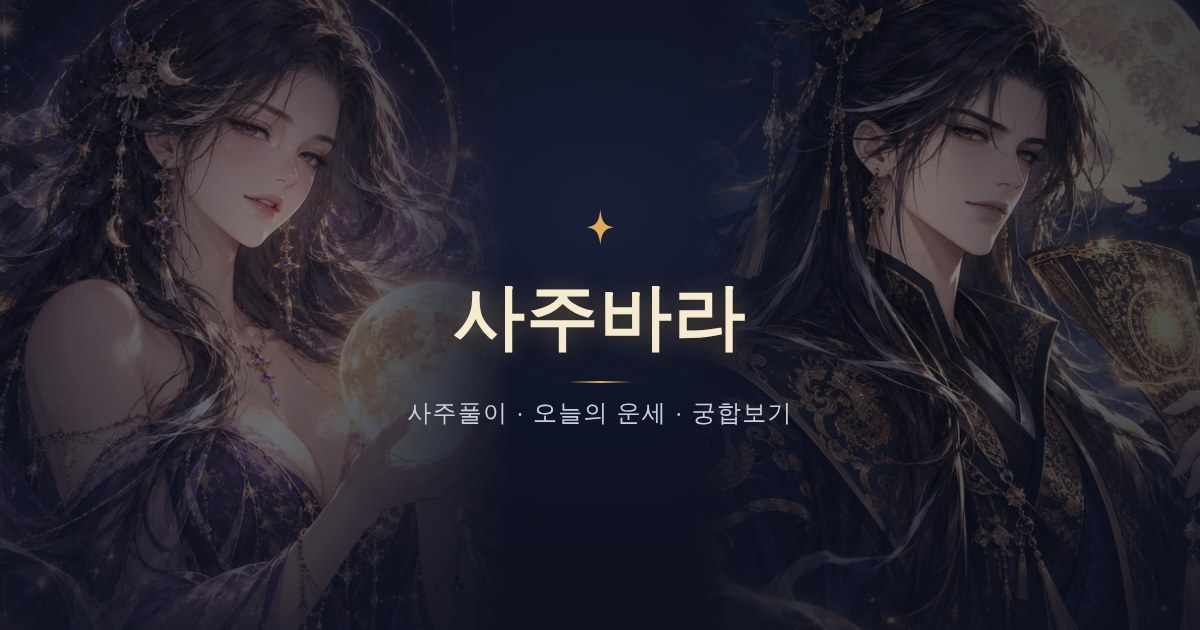
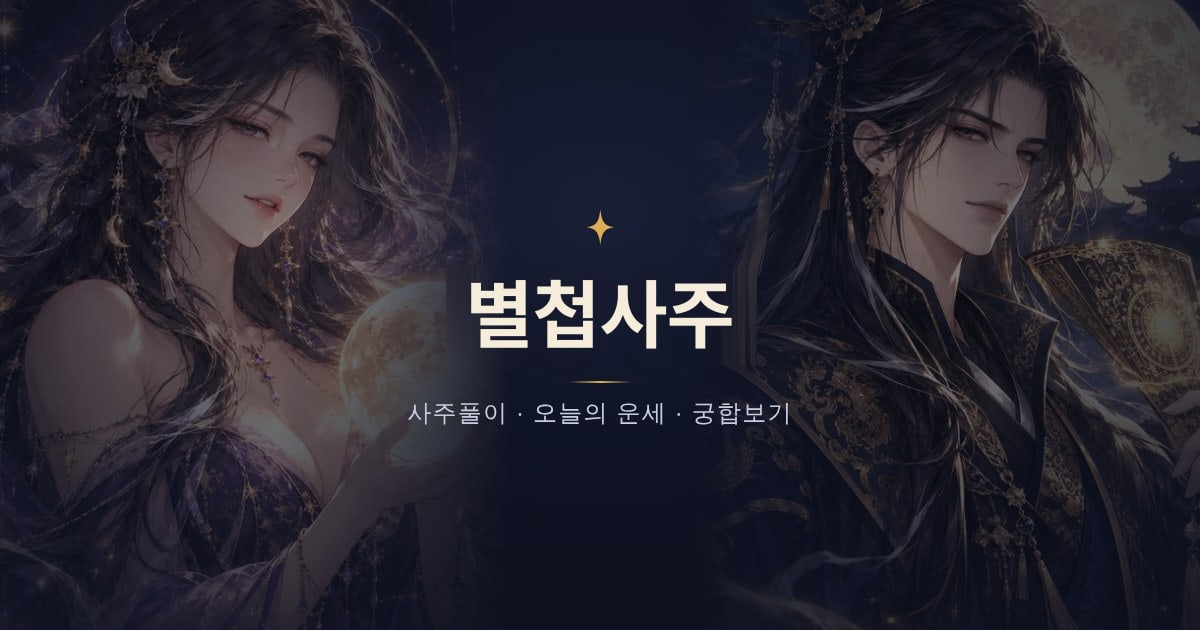
서비스명을 사주바라 → 별첩사주로 변경: 문구·메타·로고·아이콘·공유 이미지

Changed region(s): [[0.37, 0.4222, 0.6167, 0.573]]

diff --git a/index.html b/index.html
@@ -3,21 +3,21 @@
 <head>
 <meta charset="utf-8">
 <meta name="viewport" content="width=device-width,initial-scale=1,viewport-fit=cover">
-<meta name="description" content="사주팔자 분석, 오늘의 운세, 궁합보기를 한 곳에서 — SAZUBARA">
-<link rel="icon" type="image/svg+xml" href="/favicon.svg?v=5">
-<link rel="apple-touch-icon" href="/apple-touch-icon.png?v=5">
+<meta name="description" content="무료 사주풀이, 오늘의 운세, 궁합보기를 한 곳에서. 내 사주를 별 카드로 모아보는 별첩사주.">
+<link rel="icon" type="image/svg+xml" href="/favicon.svg?v=6">
+<link rel="apple-touch-icon" href="/apple-touch-icon.png?v=6">
 <meta property="og:type" content="website">
-<meta property="og:site_name" content="사주바라">
-<meta property="og:title" content="사주바라 — 사주풀이 · 오늘의 운세 · 궁합보기">
-<meta property="og:description" content="나의 성향부터 오늘의 흐름, 서로의 궁합까지. 사주바라에서 만나보세요.">
-<meta property="og:image" content="https://sazubara-web.vercel.app/og-image-v2.jpg">
-<meta property="og:image:alt" content="라벤더빛 카드와 사주바라 로고">
+<meta property="og:site_name" content="별첩사주">
+<meta property="og:title" content="별첩사주 — 사주풀이 · 오늘의 운세 · 궁합보기">
+<meta property="og:description" content="나의 성향부터 오늘의 흐름, 서로의 궁합까지. 별첩사주에서 만나보세요.">
+<meta property="og:image" content="https://sazubara-web.vercel.app/og-image-v3.jpg">
+<meta property="og:image:alt" content="라벤더빛 카드와 별첩사주 로고">
 <meta property="og:image:width" content="1200">
 <meta property="og:image:height" content="630">
 <meta name="twitter:card" content="summary_large_image">
-<meta name="twitter:title" content="사주바라 — 사주풀이 · 오늘의 운세 · 궁합보기">
-<meta name="twitter:image" content="https://sazubara-web.vercel.app/og-image-v2.jpg">
-<title>사주바라 — 나의 사주, 오늘의 흐름</title>
+<meta name="twitter:title" content="별첩사주 — 사주풀이 · 오늘의 운세 · 궁합보기">
+<meta name="twitter:image" content="https://sazubara-web.vercel.app/og-image-v3.jpg">
+<title>별첩사주 — 무료 사주풀이 · 오늘의 운세 · 궁합</title>
 <link rel="preconnect" href="https://fonts.googleapis.com">
 <link rel="preconnect" href="https://fonts.gstatic.com" crossorigin>
 <link href="https://fonts.googleapis.com/css2?family=Noto+Sans+KR:wght@400;500;600;700&family=Noto+Serif+KR:wght@500;600&display=swap" rel="stylesheet">
@@ -832,7 +832,7 @@ img{max-width:100%;}
 }
 </style>
 <style>
-/* 사주바라 화면 정리: 읽기 쉬운 카드와 포스터 중심 탐색 */
+/* 별첩사주 화면 정리: 읽기 쉬운 카드와 포스터 중심 탐색 */
 :root{--fg-muted:#b4bdd3;--fg-faint:#929db9;--border:rgba(190,202,239,.12);--shadow:0 6px 20px rgba(0,0,0,.16);}
 html{min-height:100%;scroll-padding-top:90px;}
 body{background:radial-gradient(ellipse at 50% 0,rgba(37,48,85,.28),transparent 55%),var(--bg);}
@@ -1048,7 +1048,7 @@ body{background:#ece7e5;letter-spacing:-.025em}.app{background:var(--bg);box-sha
 <div class="app">
   <header class="app-header">
     <div class="title-col">
-      <span class="mark brand-mark"><span class="brand-ic" id="brand-mark-ic"></span>사주바라</span>
+      <span class="mark brand-mark"><span class="brand-ic" id="brand-mark-ic"></span>별첩사주</span>
       <span class="sub">오늘의 운세 · 궁합</span>
     </div>
     <div class="header-actions">
@@ -1065,7 +1065,7 @@ body{background:#ece7e5;letter-spacing:-.025em}.app{background:var(--bg);box-sha
 
       <form class="card" id="saju-form">
         <div>
-          <img class="brand-hero" src="og-image.jpg" alt="달빛 아래 두 인물과 사주바라 브랜드" width="1200" height="630" fetchpriority="high">
+          <img class="brand-hero" src="og-image.jpg?v=2" alt="달빛 아래 두 인물과 별첩사주 브랜드" width="1200" height="630" fetchpriority="high">
           <p class="eyebrow">내 사주 속, 아직 몰랐던 이야기</p>
           <h1 class="section-title">나는 어떤 사람일까?</h1>
           <p class="section-desc">생년월일만 알려주면 돼요. 타고난 성격부터 숨겨진 기운, 오늘의 흐름까지 무료로 풀어드려요.</p>
@@ -2296,26 +2296,26 @@ function loadKakaoSdk(){
   });
   return _kakaoSdkPromise;
 }
-var KAKAO_SHARE_IMAGE = 'https://sazubara-web.vercel.app/og-image-v2.jpg';
+var KAKAO_SHARE_IMAGE = 'https://sazubara-web.vercel.app/og-image-v3.jpg';
 function kakaoShare(text, url, buttonTitle){
   return loadKakaoSdk().then(function(Kakao){
     Kakao.Share.sendDefault({
       objectType: 'feed',
       content: {
-        title: '사주바라',
+        title: '별첩사주',
         description: text,
         imageUrl: KAKAO_SHARE_IMAGE,
         link: { mobileWebUrl: url, webUrl: url }
       },
       buttons: [{
-        title: buttonTitle || '사주바라 열어보기',
+        title: buttonTitle || '별첩사주 열어보기',
         link: { mobileWebUrl: url, webUrl: url }
       }]
     });
   });
 }
 /* 궁합/오늘의 운세/사주요약 공유카드(동적으로 생성된 PNG blob)를 카카오 피드 카드의
-   이미지로 올려서, 누르면 바로 사주바라로 랜딩되는 "초대 메시지" 형태로 공유한다.
+   이미지로 올려서, 누르면 바로 별첩사주로 랜딩되는 "초대 메시지" 형태로 공유한다.
    Kakao.Share.uploadImage는 1회성 이미지 업로드 API — 업로드된 imageUrl을 피드 카드에 꽂아 보낸다. */
 function kakaoShareImage(title, text, blob, url, buttonTitle){
   return loadKakaoSdk().then(function(Kakao){
@@ -2330,7 +2330,7 @@ function kakaoShareImage(title, text, blob, url, buttonTitle){
           link: { mobileWebUrl: url, webUrl: url }
         },
         buttons: [{
-          title: buttonTitle || '사주바라에서 확인하기',
+          title: buttonTitle || '별첩사주에서 확인하기',
           link: { mobileWebUrl: url, webUrl: url }
         }]
       });
@@ -2358,10 +2358,10 @@ function maybeAwardShareBonus(){
 }
 function doShare(){
   var url = shareUrl();
-  var text = (STATE.mySaju&&STATE.mySaju.name? STATE.mySaju.name+'님이 ':'')+'사주바라에서 사주풀이·오늘의 운세·궁합을 확인해보세요! 생년월일을 입력하고 서로의 궁합도 확인해보세요 ✨';
+  var text = (STATE.mySaju&&STATE.mySaju.name? STATE.mySaju.name+'님이 ':'')+'별첩사주에서 사주풀이·오늘의 운세·궁합을 확인해보세요! 생년월일을 입력하고 서로의 궁합도 확인해보세요 ✨';
   kakaoShare(text, url).then(maybeAwardShareBonus).catch(function(){
   if (navigator.share){
-    navigator.share({ title:'사주바라', text:text, url:url }).then(maybeAwardShareBonus).catch(function(){});
+    navigator.share({ title:'별첩사주', text:text, url:url }).then(maybeAwardShareBonus).catch(function(){});
   } else {
     copyToClipboard(text+'\n'+url);
     showToast('초대 링크가 복사됐어요. 카카오톡에 붙여넣어 공유해보세요!');
@@ -2383,7 +2383,7 @@ function doShare(){
                showToast('링크를 보냈어요! 상대방이 입력하면 나의 카드첩에서 서로 궁합을 확인할 수 있어요.');
         }).catch(function(){
                if (navigator.share){
-                        navigator.share({ title:'사주바라 궁합', text:text, url:url }).then(function(){
+                        navigator.share({ title:'별첩사주 궁합', text:text, url:url }).then(function(){
                                    maybeAwardShareBonus();
                                    showToast('링크를 보냈어요! 상대방이 입력하면 나의 카드첩에서 서로 궁합을 확인할 수 있어요.');
                         }).catch(function(){});
@@ -2432,7 +2432,7 @@ function startUnlock(unlockKey, priceKrw, label){
     tp.requestPayment('카드', {
       amount: priceKrw,
       orderId: orderId,
-      orderName: '사주바라 — ' + label,
+      orderName: '별첩사주 — ' + label,
       successUrl: location.origin + '/success.html?type=unlock&unlockKey=' + encodeURIComponent(unlockKey)+'&tab='+encodeURIComponent(location.hash.replace('#','')||'saju'),
       failUrl: location.origin + '/fail.html'
     });
@@ -2591,7 +2591,7 @@ function personaIconSvg(bg, inner){
       '<circle cx="32" cy="32" r="32" fill="'+bg+'"/>'+inner+'</svg>';
 }
 /* 태극의 유동적인 소용돌이 곡선 + 꼬리 끝의 별 — 동양 철학의 흐름과 점성술의 반짝임을 함께 담은 브랜드 마크 */
-var BRAND_MARK_SVG = '<svg aria-hidden="true" xmlns="http://www.w3.org/2000/svg" viewBox="0 0 48 48" fill="none"><rect x="2" y="2" width="44" height="44" rx="14" fill="#eee4f3"/><g stroke="#8f6a9f" stroke-width="2" stroke-linecap="round" stroke-linejoin="round"><path d="M24 24C16 23 11 19 12 13c6-1 10 4 12 11Z"/><path d="M24 24c1-8 5-13 11-12 1 6-4 10-11 12Z"/><path d="M24 24c8 1 13 5 12 11-6 1-10-4-12-11Z"/><path d="M24 24c-1 8-5 13-11 12-1-6 4-10 11-12Z"/></g><path d="m24 19 5 5-5 5-5-5Z" fill="#b99ac9"/><g fill="#ae8cbf"><circle cx="24" cy="8" r="1.2"/><circle cx="40" cy="24" r="1.2"/><circle cx="24" cy="40" r="1.2"/><circle cx="8" cy="24" r="1.2"/></g></svg>';
+var BRAND_MARK_SVG = '<svg aria-hidden="true" xmlns="http://www.w3.org/2000/svg" viewBox="0 0 48 48" fill="none"><rect x="2" y="2" width="44" height="44" rx="14" fill="#eee4f3"/><g stroke="#8f6a9f" stroke-width="2" stroke-linecap="round" stroke-linejoin="round"><path d="M24 37c-3.6-2.4-7.6-3.2-12-2.6V19.6c4.4-.6 8.4.2 12 2.6"/><path d="M24 37c3.6-2.4 7.6-3.2 12-2.6V19.6c-4.4-.6-8.4.2-12 2.6"/><path d="M24 22.2V37"/></g><path d="M24 6.5l1.5 3.6 3.6 1.5-3.6 1.5L24 16.7l-1.5-3.6-3.6-1.5 3.6-1.5Z" fill="#b99ac9" stroke="#8f6a9f" stroke-width="1.2" stroke-linejoin="round"/><g fill="#8f6a9f"><circle cx="13" cy="11" r="1.2"/><circle cx="35" cy="11" r="1.2"/><circle cx="31" cy="15.5" r=".9"/></g></svg>';
 /* 리빌 오버레이 전용 — 계속 회전하는 로딩 마크라 방사 대칭인 반짝임 모양을 그대로 유지 */
 var REVEAL_SPARK_SVG = personaIconSvg('#f3ece0',
   '<path d="M32 12c1.6 11 3.4 16.6 14 18-10.6 1.4-12.4 7-14 18-1.6-11-3.4-16.6-14-18 10.6-1.4 12.4-7 14-18z" fill="#9c6b1f"/>'
@@ -3671,7 +3671,7 @@ var CARD_TYPES=[
 ];
 function cardTypeOf(entry){return CARD_TYPES.find(function(t){return t.stem===entry.dayGanB;})||CARD_TYPES.find(function(t){return t.wx===entry.dayGanWxB&&t.polarity===entry.cardPolarity;})||null;}
 function cardDexEntries(list){return CARD_TYPES.reduce(function(out,type){MYROOM_TIERS.forEach(function(tier){var matches=list.filter(function(e){var t=cardTypeOf(e);return t&&t.id===type.id&&myroomTier(e.score).key===tier.key;});out.push({id:type.id+'-'+tier.key,type:type,tier:tier,entry:matches[0]||null,count:matches.length});});return out;},[]);}
-function cardBackHtml(row,extra){return '<div class="card-back '+(extra||'')+'" aria-label="미보유 · '+esc(row.type.title)+' · '+row.tier.grade+'등급"><span class="card-back-grade">'+row.tier.grade+'</span><span class="card-back-mark">'+BRAND_MARK_SVG+'</span><span class="card-back-brand">SAZUBARA</span><small>'+esc(row.type.wx)+' · '+(row.type.polarity==='yang'?'양':'음')+'</small><span class="card-back-label">아직 만나지 않은 인연</span></div>';}
+function cardBackHtml(row,extra){return '<div class="card-back '+(extra||'')+'" aria-label="미보유 · '+esc(row.type.title)+' · '+row.tier.grade+'등급"><span class="card-back-grade">'+row.tier.grade+'</span><span class="card-back-mark">'+BRAND_MARK_SVG+'</span><span class="card-back-brand">BYEOLCHEOP</span><small>'+esc(row.type.wx)+' · '+(row.type.polarity==='yang'?'양':'음')+'</small><span class="card-back-label">아직 만나지 않은 인연</span></div>';}
 function cardAlbumEmptyHtml(){var rows=cardDexEntries([]).filter(function(r){return r.tier.key==='a';}).slice(0,6);return '<div class="album-page-label"><span>MY CONNECTIONS</span><span>01 / ∞</span></div><div class="myroom-grid card-album-empty">'+rows.map(function(r){return cardBackHtml(r);}).join('')+'</div>';}
 function closeMyroomDex(){var root=$('#myroom-sheet-root');if(root)root.innerHTML='';}
 function openMyroomDex(){
@@ -3876,7 +3876,7 @@ function startReportUnlock(concept,stage){
   Promise.all([loadTossSdk(),fetch('/api/reports/unlock',{method:'POST',headers:{'Content-Type':'application/json'},body:JSON.stringify({action:'prepare',deviceId:DEVICE.shareCode,conceptId:concept.id,stage:stage})}).then(function(r){return r.json();}).then(function(data){if(!data.ok){var error=new Error(data.message||'결제 준비에 실패했어요.');error.code=data.error;throw error;}return data;})]).then(function(values){
     var ctx=values[0],checkout=values[1];
     return ctx.TossPayments(ctx.clientKey).requestPayment('카드',{
-      amount:checkout.amount,orderId:checkout.orderId,orderName:'사주바라 '+(stage==='story'?'콘텐츠':'심층 리포트')+' — '+concept.title,
+      amount:checkout.amount,orderId:checkout.orderId,orderName:'별첩사주 '+(stage==='story'?'콘텐츠':'심층 리포트')+' — '+concept.title,
       successUrl:location.origin+'/success.html?type=report&conceptId='+encodeURIComponent(concept.id)+'&stage='+stage+'&quote='+encodeURIComponent(checkout.quote),
       failUrl:location.origin+'/fail.html?report='+encodeURIComponent(concept.id)+'&stage='+stage
     });
@@ -5075,9 +5075,9 @@ function shareCardFooter(ctx, W, dividerY, hookLine){
   ctx.fillStyle='#f3e6c8'; ctx.font='700 32px "Noto Serif KR", serif';
   ctx.fillText(hookLine, W/2, dividerY+64);
   ctx.fillStyle='#e0ad55'; ctx.font='700 24px "Noto Sans KR", sans-serif';
-  ctx.fillText('사주바라에서 무료로 확인하기', W/2, dividerY+110);
+  ctx.fillText('별첩사주에서 무료로 확인하기', W/2, dividerY+110);
   ctx.fillStyle='#767e94'; ctx.font='400 19px "Noto Sans KR", sans-serif';
-  ctx.fillText('sazubara.app', W/2, dividerY+146);
+  ctx.fillText(location.host, W/2, dividerY+146);
 }
 function buildCompatShareCard(resA, resB, compat, total){
   var W=1080, H=1650;
@@ -5103,7 +5103,7 @@ function buildCompatShareCard(resA, resB, compat, total){
     ctx.textAlign='center'; ctx.textBaseline='alphabetic';
     ctx.fillStyle='#e0ad55';
     ctx.font='700 38px "Noto Serif KR", serif';
-    ctx.fillText('사주바라 궁합', W/2, 146);
+    ctx.fillText('별첩사주 궁합', W/2, 146);
     ctx.fillStyle='#a1a8bd';
     ctx.font='400 23px "Noto Sans KR", sans-serif';
     ctx.fillText('사주로 보는 우리 궁합', W/2, 188);
@@ -5204,7 +5204,7 @@ function buildDailyShareCard(my){
     ctx.textAlign='center'; ctx.textBaseline='alphabetic';
     ctx.fillStyle='#e0ad55';
     ctx.font='700 38px "Noto Serif KR", serif';
-    ctx.fillText('사주바라 오늘의 운세', W/2, 146);
+    ctx.fillText('별첩사주 오늘의 운세', W/2, 146);
     ctx.fillStyle='#a1a8bd';
     ctx.font='400 23px "Noto Sans KR", sans-serif';
     ctx.fillText(now.getFullYear()+'년 '+(now.getMonth()+1)+'월 '+now.getDate()+'일 ('+weekKr+') · '+(my.name?my.name+'님':'나')+' 기준', W/2, 188);
@@ -5295,7 +5295,7 @@ function buildSajuShareCard(result){
     ctx.textAlign='center'; ctx.textBaseline='alphabetic';
     ctx.fillStyle='#e0ad55';
     ctx.font='700 38px "Noto Serif KR", serif';
-    ctx.fillText('사주바라 사주풀이', W/2, 146);
+    ctx.fillText('별첩사주 사주풀이', W/2, 146);
     ctx.fillStyle='#a1a8bd';
     ctx.font='400 23px "Noto Sans KR", sans-serif';
     ctx.fillText('나의 사주팔자', W/2, 188);
@@ -5379,7 +5379,7 @@ function buildReportShareCard(concept, panels, result){
     ctx.textAlign='center'; ctx.textBaseline='alphabetic';
     ctx.fillStyle='#e0ad55';
     ctx.font='700 32px "Noto Serif KR", serif';
-    ctx.fillText('사주바라 이야기', W/2, 142);
+    ctx.fillText('별첩사주 이야기', W/2, 142);
 
     var avR=78, avY=290;
     drawShareAvatar(ctx, avImg, W/2, avY, avR, (result.name||'나').charAt(0));
@@ -5421,7 +5421,7 @@ function downloadCanvasImage(canvas, filename, toastMsg){
 }
 function fallbackTextShare(text, url, title){
   if (navigator.share){
-    navigator.share({ title:title||'사주바라', text:text, url:url }).then(maybeAwardShareBonus).catch(function(){});
+    navigator.share({ title:title||'별첩사주', text:text, url:url }).then(maybeAwardShareBonus).catch(function(){});
   } else {
     copyToClipboard(text+'\n'+url);
     showToast('공유 텍스트가 복사됐어요. 카카오톡에 붙여넣어 보내보세요!');
@@ -5437,50 +5437,50 @@ function isKakaoInApp(){
 }
 function doShareCompat(resA, resB, total, compat){
   var url = shareUrl();
-  var text = (resA.name||'나')+' ✕ '+(resB.name||'상대방')+' 궁합 점수는 '+total+'점! 사주바라에서 우리 궁합도 확인해보세요 💕';
-  if (!document.createElement('canvas').getContext){ fallbackTextShare(text, url, '사주바라 궁합'); return; }
+  var text = (resA.name||'나')+' ✕ '+(resB.name||'상대방')+' 궁합 점수는 '+total+'점! 별첩사주에서 우리 궁합도 확인해보세요 💕';
+  if (!document.createElement('canvas').getContext){ fallbackTextShare(text, url, '별첩사주 궁합'); return; }
   buildCompatShareCard(resA, resB, compat, total).then(function(canvas){
     canvas.toBlob(function(blob){
-      if (!blob){ fallbackTextShare(text, url, '사주바라 궁합'); return; }
-      shareImageBlob(canvas, blob, text, url, 'sazubara-compat.png', '사주바라 궁합', '우리 궁합 확인하기');
+      if (!blob){ fallbackTextShare(text, url, '별첩사주 궁합'); return; }
+      shareImageBlob(canvas, blob, text, url, 'byeolcheop-compat.png', '별첩사주 궁합', '우리 궁합 확인하기');
     }, 'image/png', 0.95);
-  }).catch(function(){ fallbackTextShare(text, url, '사주바라 궁합'); });
+  }).catch(function(){ fallbackTextShare(text, url, '별첩사주 궁합'); });
 }
 function doShareDaily(my){
   var url = shareUrl();
   var today = todayGanZhi();
   var ssKey = dailyShishenKey(my.day.gan, my.dayGanWx, today.gan, today.wxGan);
   var ft = FORTUNE_TEXT[ssKey];
-  var text = (my.name?my.name+'님의':'나의')+' 오늘 기운은 "'+ft.label+'"! 사주바라에서 오늘의 운세를 확인해보세요 🔮';
-  if (!document.createElement('canvas').getContext){ fallbackTextShare(text, url, '사주바라 오늘의 운세'); return; }
+  var text = (my.name?my.name+'님의':'나의')+' 오늘 기운은 "'+ft.label+'"! 별첩사주에서 오늘의 운세를 확인해보세요 🔮';
+  if (!document.createElement('canvas').getContext){ fallbackTextShare(text, url, '별첩사주 오늘의 운세'); return; }
   buildDailyShareCard(my).then(function(canvas){
     canvas.toBlob(function(blob){
-      if (!blob){ fallbackTextShare(text, url, '사주바라 오늘의 운세'); return; }
-      shareImageBlob(canvas, blob, text, url, 'sazubara-today.png', '사주바라 오늘의 운세', '오늘 운세 확인하기');
+      if (!blob){ fallbackTextShare(text, url, '별첩사주 오늘의 운세'); return; }
+      shareImageBlob(canvas, blob, text, url, 'byeolcheop-today.png', '별첩사주 오늘의 운세', '오늘 운세 확인하기');
     }, 'image/png', 0.95);
-  }).catch(function(){ fallbackTextShare(text, url, '사주바라 오늘의 운세'); });
+  }).catch(function(){ fallbackTextShare(text, url, '별첩사주 오늘의 운세'); });
 }
 function doShareSaju(result){
   var url = shareUrl();
-  var text = (result.name?result.name+'님의':'나의')+' 사주를 사주바라에서 무료로 풀어보세요 ✨';
-  if (!document.createElement('canvas').getContext){ fallbackTextShare(text, url, '사주바라 내 사주'); return; }
+  var text = (result.name?result.name+'님의':'나의')+' 사주를 별첩사주에서 무료로 풀어보세요 ✨';
+  if (!document.createElement('canvas').getContext){ fallbackTextShare(text, url, '별첩사주 내 사주'); return; }
   buildSajuShareCard(result).then(function(canvas){
     canvas.toBlob(function(blob){
-      if (!blob){ fallbackTextShare(text, url, '사주바라 내 사주'); return; }
-      shareImageBlob(canvas, blob, text, url, 'sazubara-saju.png', '사주바라 내 사주', '내 사주 확인하기');
+      if (!blob){ fallbackTextShare(text, url, '별첩사주 내 사주'); return; }
+      shareImageBlob(canvas, blob, text, url, 'byeolcheop-saju.png', '별첩사주 내 사주', '내 사주 확인하기');
     }, 'image/png', 0.95);
-  }).catch(function(){ fallbackTextShare(text, url, '사주바라 내 사주'); });
+  }).catch(function(){ fallbackTextShare(text, url, '별첩사주 내 사주'); });
 }
 function doShareReport(concept, panels, result){
   var url = shareUrl();
-  var text = '"'+concept.title+'" 이야기, 사주바라에서 확인해보세요 ✨';
-  if (!document.createElement('canvas').getContext){ fallbackTextShare(text, url, '사주바라 이야기'); return; }
+  var text = '"'+concept.title+'" 이야기, 별첩사주에서 확인해보세요 ✨';
+  if (!document.createElement('canvas').getContext){ fallbackTextShare(text, url, '별첩사주 이야기'); return; }
   buildReportShareCard(concept, panels, result).then(function(canvas){
     canvas.toBlob(function(blob){
-      if (!blob){ fallbackTextShare(text, url, '사주바라 이야기'); return; }
-      shareImageBlob(canvas, blob, text, url, 'sazubara-report.png', '사주바라 이야기', '이야기 확인하기');
+      if (!blob){ fallbackTextShare(text, url, '별첩사주 이야기'); return; }
+      shareImageBlob(canvas, blob, text, url, 'byeolcheop-report.png', '별첩사주 이야기', '이야기 확인하기');
     }, 'image/png', 0.95);
-  }).catch(function(){ fallbackTextShare(text, url, '사주바라 이야기'); });
+  }).catch(function(){ fallbackTextShare(text, url, '별첩사주 이야기'); });
 }
 /* 공유 카드(canvas) 공유 — 우선순위:
    1) kakaoShareImage: 카드 이미지를 카카오에 업로드해서 그 이미지가 꽂힌 피드 카드로 공유.
@@ -5742,7 +5742,7 @@ function openSiteMenu(){
   $('#btn-open-menu').setAttribute('aria-expanded','true');
   var rows=[['archive','보유 콘텐츠','구매한 콘텐츠와 리포트 다시 보기'],['saju','사주풀이','타고난 성향과 나의 강점'],['today','오늘의 운세','오늘부터 올해까지의 흐름'],['compat','궁합보기','두 사람의 기운과 관계'],['reports','콘텐츠','관심 있는 주제 둘러보기']];
   root.innerHTML='<div class="menu-backdrop" id="menu-backdrop"><aside class="site-menu" role="dialog" aria-modal="true" aria-labelledby="menu-title">'+
-    '<div class="menu-top"><h2 id="menu-title">사주바라</h2><button type="button" class="header-icon-btn" id="menu-close" aria-label="전체 메뉴 닫기"><svg viewBox="0 0 24 24" fill="none" aria-hidden="true"><path d="m6 6 12 12M18 6 6 18" stroke="currentColor" stroke-width="1.7" stroke-linecap="round"/></svg></button></div>'+
+    '<div class="menu-top"><h2 id="menu-title">별첩사주</h2><button type="button" class="header-icon-btn" id="menu-close" aria-label="전체 메뉴 닫기"><svg viewBox="0 0 24 24" fill="none" aria-hidden="true"><path d="m6 6 12 12M18 6 6 18" stroke="currentColor" stroke-width="1.7" stroke-linecap="round"/></svg></button></div>'+
     '<button type="button" class="menu-profile" id="menu-account" aria-expanded="false" aria-controls="menu-auth"><span class="menu-profile-mark">'+BRAND_MARK_SVG+'</span><span><strong id="menu-account-name">로그인하고 함께하기</strong><small id="menu-account-desc">카카오로 간편하게 시작해보세요</small></span></button>'+
     '<div class="menu-auth" id="menu-auth" hidden></div>'+
     '<div class="menu-nav">'+rows.map(function(row){return '<button type="button" class="menu-row" data-menu-tab="'+row[0]+'"><span class="menu-row-icon">'+MENU_ICONS[row[0]]+'</span><span><strong>'+row[1]+'</strong><small>'+row[2]+'</small></span><span class="menu-chevron" aria-hidden="true">›</span></button>';}).join('')+'</div>'+
@@ -5809,7 +5809,7 @@ function renderAuthPanel(){
   }
   var kakao='<svg viewBox="0 0 24 24" aria-hidden="true"><path fill="currentColor" d="M12 3C6.5 3 2 6.5 2 10.8c0 2.8 1.9 5.2 4.8 6.6l-1 3.5c-.1.4.2.6.5.4l4.2-2.7H12c5.5 0 10-3.5 10-7.8S17.5 3 12 3Z"/></svg>';
   function provider(id,label,icon){var available=AUTH.settingsLoaded&&AUTH.providers[id]===true;return '<button type="button" class="login-provider login-'+id+'" data-login-provider="'+id+'"'+(available?'':' disabled')+'>'+icon+'<span>'+label+'</span>'+(!available?'<span class="login-status">'+(AUTH.settingsLoaded?'준비 중':'확인 중')+'</span>':'')+'</button>';}
-  panel.innerHTML='<h3>사주바라에 오신 걸 환영해요</h3><p>카카오 계정으로 간편하게 시작하세요.</p>'+provider('kakao','카카오로 시작하기',kakao)+'<p id="menu-auth-message" role="status">'+(AUTH.settingsLoaded&&!AUTH.providers.kakao?'카카오 로그인은 연결을 준비하고 있어요. 사주풀이는 로그인 없이 이용할 수 있어요.':'')+'</p>';
+  panel.innerHTML='<h3>별첩사주에 오신 걸 환영해요</h3><p>카카오 계정으로 간편하게 시작하세요.</p>'+provider('kakao','카카오로 시작하기',kakao)+'<p id="menu-auth-message" role="status">'+(AUTH.settingsLoaded&&!AUTH.providers.kakao?'카카오 로그인은 연결을 준비하고 있어요. 사주풀이는 로그인 없이 이용할 수 있어요.':'')+'</p>';
   $all('[data-login-provider]',panel).forEach(function(button){button.addEventListener('click',async function(){button.disabled=true;var message=$('#menu-auth-message');message.textContent='로그인 페이지로 이동 중...';try{var client=await initAuth();var result=await client.auth.signInWithOAuth({provider:button.dataset.loginProvider,options:{redirectTo:window.location.origin+window.location.pathname}});if(result.error)throw result.error;}catch(e){button.disabled=false;message.textContent='로그인을 시작하지 못했어요. 잠시 후 다시 시도해주세요.';}});});
   if(!AUTH.settingsLoaded)loadAuthProviders().then(function(){if(panel.isConnected&&!panel.hidden)renderAuthPanel();}).catch(function(){var message=$('#menu-auth-message');if(message)message.textContent='로그인 연결을 확인하지 못했어요. 메뉴를 닫고 다시 열어주세요.';});
 }

diff --git a/story-design-preview.html b/story-design-preview.html
@@ -1,4 +1,4 @@
-<!doctype html><html lang="ko"><head><meta charset="utf-8"><meta name="robots" content="noindex"><meta name="viewport" content="width=device-width,initial-scale=1"><title>사주바라 이야기 디자인 미리보기</title><link href="https://fonts.googleapis.com/css2?family=Black+Han+Sans&family=Noto+Sans+KR:wght@400;500;600;700&family=Noto+Serif+KR:wght@500;600&display=swap" rel="stylesheet"><style>
+<!doctype html><html lang="ko"><head><meta charset="utf-8"><meta name="robots" content="noindex"><meta name="viewport" content="width=device-width,initial-scale=1"><title>별첩사주 이야기 디자인 미리보기</title><link href="https://fonts.googleapis.com/css2?family=Black+Han+Sans&family=Noto+Sans+KR:wght@400;500;600;700&family=Noto+Serif+KR:wght@500;600&display=swap" rel="stylesheet"><style>
 /* 레이아웃: 상단 고정 헤더 + 스크롤 콘텐츠 + 하단 고정 3탭 바를 가진 모바일 앱 셸.
    웹툰 포스터풍 다크 테마 — 짙은 자정 보라 배경 + 비비드 마젠타 액센트. */
 :root{
@@ -787,7 +787,7 @@ img{max-width:100%;}
 }
 
 
-/* 사주바라 화면 정리: 읽기 쉬운 카드와 포스터 중심 탐색 */
+/* 별첩사주 화면 정리: 읽기 쉬운 카드와 포스터 중심 탐색 */
 :root{--fg-muted:#b4bdd3;--fg-faint:#929db9;--border:rgba(190,202,239,.12);--shadow:0 6px 20px rgba(0,0,0,.16);}
 html{min-height:100%;scroll-padding-top:90px;}
 body{background:radial-gradient(ellipse at 50% 0,rgba(37,48,85,.28),transparent 55%),var(--bg);}

diff --git a/card-album-preview.html b/card-album-preview.html
@@ -1,4 +1,4 @@
-<!DOCTYPE html><html lang="ko"><head><meta charset="utf-8"><meta name="viewport" content="width=device-width, initial-scale=1"><meta name="robots" content="noindex,nofollow"><title>사주바라 · 전체 수집 카드첩 미리보기</title><style>
+<!DOCTYPE html><html lang="ko"><head><meta charset="utf-8"><meta name="viewport" content="width=device-width, initial-scale=1"><meta name="robots" content="noindex,nofollow"><title>별첩사주 · 전체 수집 카드첩 미리보기</title><style>
 /* 레이아웃: 상단 고정 헤더 + 스크롤 콘텐츠 + 하단 고정 3탭 바를 가진 모바일 앱 셸.
    웹툰 포스터풍 다크 테마 — 짙은 자정 보라 배경 + 비비드 마젠타 액센트. */
 :root{
@@ -786,7 +786,7 @@ img{max-width:100%;}
 }
 
 
-/* 사주바라 화면 정리: 읽기 쉬운 카드와 포스터 중심 탐색 */
+/* 별첩사주 화면 정리: 읽기 쉬운 카드와 포스터 중심 탐색 */
 :root{--fg-muted:#b4bdd3;--fg-faint:#929db9;--border:rgba(190,202,239,.12);--shadow:0 6px 20px rgba(0,0,0,.16);}
 html{min-height:100%;scroll-padding-top:90px;}
 body{background:radial-gradient(ellipse at 50% 0,rgba(37,48,85,.28),transparent 55%),var(--bg);}

diff --git a/success.html b/success.html
@@ -3,7 +3,7 @@
 <head>
 <meta charset="utf-8">
 <meta name="viewport" content="width=device-width,initial-scale=1">
-<title>결제 확인 중 · SAZUBARA</title>
+<title>결제 확인 중 · 별첩사주</title>
 <style>
   html,body{margin:0; height:100%;}
   body{

diff --git a/fail.html b/fail.html
@@ -3,7 +3,7 @@
 <head>
 <meta charset="utf-8">
 <meta name="viewport" content="width=device-width,initial-scale=1">
-<title>결제 실패 · SAZUBARA</title>
+<title>결제 실패 · 별첩사주</title>
 <style>
   html,body{margin:0; height:100%;}
   body{

diff --git a/README.md b/README.md
@@ -1,4 +1,6 @@
-# SAZUBARA — 독립 웹 배포판
+# 별첩사주 (구 SAZUBARA) — 독립 웹 배포판
+
+> 2026-10-18 서비스명을 사주바라 → 별첩사주로 변경했어요. 저장소·Vercel·Supabase 프로젝트 이름은 아직 `sazubara`를 그대로 씁니다.
 
 claude.ai Artifact(`https://claude.ai/artifact/HaGiD9QkHwJfVJbo6J6s9V`)로 만들었던 사주바라를,
 자체 도메인에서 돌릴 수 있는 일반 웹사이트 형태로 옮긴 버전입니다. UI·콘텐츠·사주 계산 로직은
